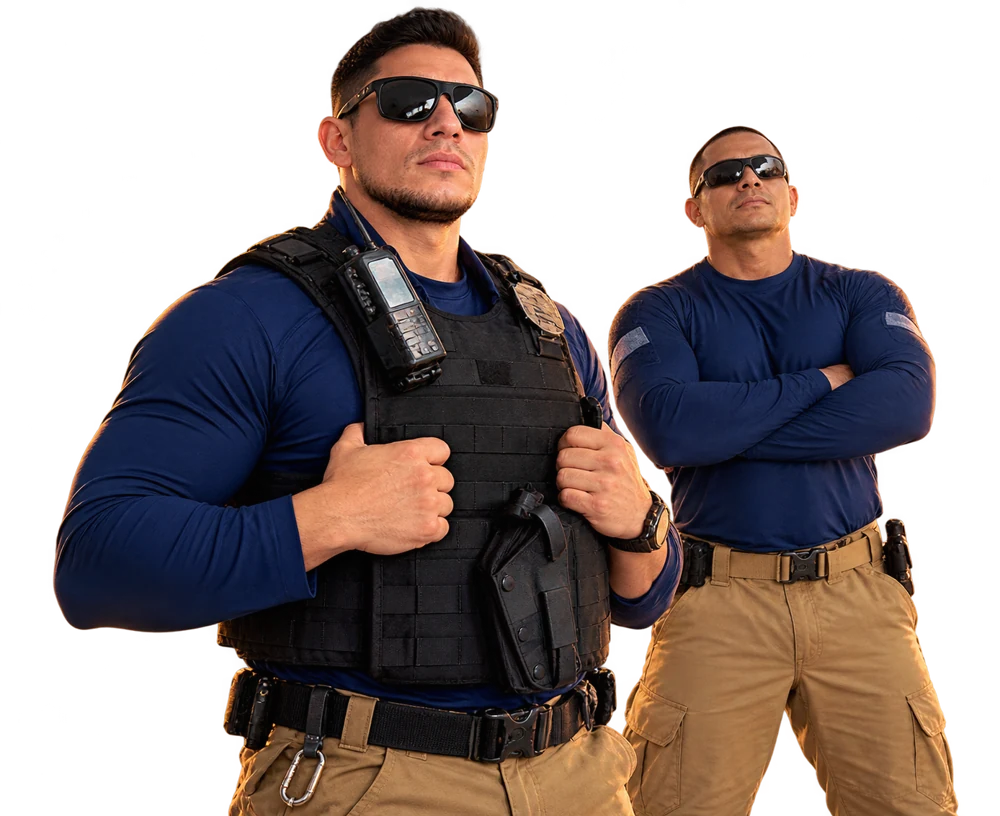
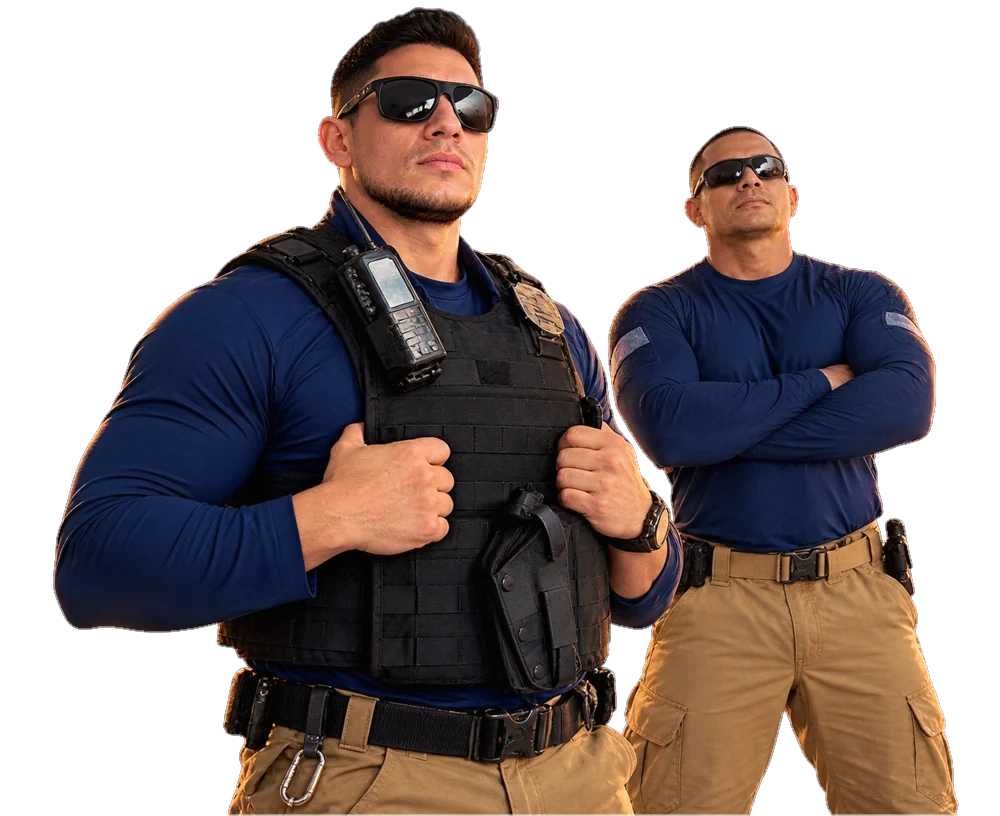
Troca o distintivo em baixa qualidade da tela offline e remove halo branco dos agentes (#268)
A tela "Você está sem conexão" usava um distintivo de qualidade inferior.
Substitui pela versão em maior resolução enviada pelo usuário, com o fundo
em xadrez (falsa transparência de editor de imagem) removido por recorte
conectado às bordas e suavização de borda. Usado só no offline.html; as
demais telas que usam o distintivo original (autenticação, hero) não foram
alteradas. Service worker precacheia o novo arquivo (versão v8).

Também recompõe o recorte dos dois agentes da seção "Antes de começar" na
home, removendo a franja esbranquiçada que sobrava nas bordas (cabelo,
ombros) ao descontaminar a cor do fundo branco original nos pixels
semitransparentes de borda.

Claude-Session: https://claude.ai/code/session_018XR7gFT2TosURh3MtZvRDY

diff --git a/public/offline.html b/public/offline.html
@@ -21,14 +21,14 @@
   .motion-toggle:hover { border-color: #e5bc7090; background: #181e17; }
   main { width: min(100%, 1320px); min-height: 0; justify-self: center; display: grid; grid-template-columns: minmax(0, 1fr) minmax(0, 1fr); gap: clamp(24px, 5vw, 88px); align-items: center; padding: 8px clamp(22px, 5vw, 76px); }
   .emblem { min-width: 0; min-height: 0; height: 100%; margin: 0; display: flex; flex-direction: column; justify-content: center; align-items: center; gap: 26px; }
-  .badge-stage { --badge-size: min(34vw, 54dvh, 440px); position: relative; width: var(--badge-size); aspect-ratio: 768 / 811; perspective: 1200px; }
+  .badge-stage { --badge-size: min(34vw, 54dvh, 440px); position: relative; width: var(--badge-size); aspect-ratio: 779 / 847; perspective: 1200px; }
   .badge-stage::after { content: ''; position: absolute; bottom: -18px; left: 20%; width: 60%; height: 12px; border-radius: 50%; background: #0009; filter: blur(8px); }
   .badge-rotor { position: relative; width: 100%; height: 100%; transform-style: preserve-3d; will-change: transform; animation: badge-sway 14s ease-in-out infinite; }
   .badge-face, .badge-edge { position: absolute; inset: 0; width: 100%; height: 100%; }
   .badge-face { object-fit: contain; backface-visibility: hidden; -webkit-backface-visibility: hidden; }
   .badge-front { transform: translateZ(6px); }
   .badge-back { transform: rotateY(180deg) translateZ(6px); }
-  .badge-edge { background: linear-gradient(115deg, #58432c, #bfa064 45%, #382c1e); mask: url('/media/brand/distintivo-carreiras-hd.webp') center / contain no-repeat; -webkit-mask: url('/media/brand/distintivo-carreiras-hd.webp') center / contain no-repeat; transform: translateZ(var(--depth)); }
+  .badge-edge { background: linear-gradient(115deg, #58432c, #bfa064 45%, #382c1e); mask: url('/media/brand/distintivo-carreiras-hd-v2.webp') center / contain no-repeat; -webkit-mask: url('/media/brand/distintivo-carreiras-hd-v2.webp') center / contain no-repeat; transform: translateZ(var(--depth)); }
   .motion-paused .badge-rotor, body[data-overlay-hidden] .badge-rotor { animation-play-state: paused; }
   .emblem figcaption { color: #e1cb9a; font-size: 10px; font-weight: 600; letter-spacing: .22em; text-transform: uppercase; text-shadow: 0 2px 12px #000; }
   .panel { position: relative; width: 100%; max-width: 480px; justify-self: end; overflow: hidden; border: 1px solid #d9b77055; border-radius: 24px; background: #121811ed; box-shadow: inset 0 1px 0 #fff09, 0 24px 70px #0005; backdrop-filter: blur(14px); -webkit-backdrop-filter: blur(14px); }
@@ -142,8 +142,8 @@
         <span class="badge-edge" style="--depth:1px"></span>
         <span class="badge-edge" style="--depth:3px"></span>
         <span class="badge-edge" style="--depth:5px"></span>
-        <img class="badge-face badge-front" src="/media/brand/distintivo-carreiras-hd.webp" width="768" height="811" alt="" decoding="async">
-        <img class="badge-face badge-back" src="/media/brand/distintivo-carreiras-hd.webp" width="768" height="811" alt="" decoding="async">
+        <img class="badge-face badge-front" src="/media/brand/distintivo-carreiras-hd-v2.webp" width="779" height="847" alt="" decoding="async">
+        <img class="badge-face badge-back" src="/media/brand/distintivo-carreiras-hd-v2.webp" width="779" height="847" alt="" decoding="async">
       </div>
     </div>
     <figcaption>Carreiras policiais · Norte Concursos</figcaption>

diff --git a/public/sw.js b/public/sw.js
@@ -7,7 +7,7 @@
 //  - /offline.html, mostrada quando não há nem página guardada.
 // O que NUNCA é guardado: dados do Supabase e qualquer outro domínio, nem requisições que não sejam GET.
 // Questões, respostas, ranking e login continuam sempre ao vivo.
-const VERSION = "v7";
+const VERSION = "v8";
 const SHELL_CACHE = `norte-app-shell-${VERSION}`;
 const ASSET_CACHE = `norte-assets-${VERSION}`;
 const PAGE_CACHE = `norte-pages-${VERSION}`;
@@ -18,7 +18,7 @@ const SHELL_ASSETS = [
   "/offline.html",
   "/media/loading/norte-abertura-hd.webp",
   "/media/hero/norte-atmosphere.webp",
-  "/media/brand/distintivo-carreiras-hd.webp",
+  "/media/brand/distintivo-carreiras-hd-v2.webp",
 ];
 const MAX_ASSETS = 220;
 const MAX_PAGES = 25;

diff --git a/ASSET_ATTRIBUTIONS.md b/ASSET_ATTRIBUTIONS.md
@@ -17,3 +17,7 @@
 - `public/media/brand/carreiras-marca-claro-hd.webp`: recorte recriado com a ferramenta integrada de edição de imagens a partir da referência de emblema metálico enviada pelo usuário. Fundo transparente, relevo cinza preservado e exportação WebP de 768 × 1061 px para o tema claro. A versão dourada do tema escuro permanece separada.
 
 - `src/assets/brand/relogio-face-circular.webp`: recorte quadrado, centrado no mostrador (caveira e pistola em relevo metálico), extraído do relógio estilizado "Carreiras Policiais" enviado pelo usuário como referência de arte para o novo relógio da plataforma (o mesmo material de origem de `public/media/brand/relogio-carreiras-policiais.webp`). Fundo branco removido por preenchimento a partir das bordas (transparência real, sem recorte adicional no miolo), exportado em WebP. Usado como arte do relógio compacto do Desafio do Dia, onde substitui o distintivo genérico só nesse contexto.
+
+- `public/media/brand/distintivo-carreiras-hd-v2.webp`: versão em maior resolução e com mais detalhe de cor do distintivo "Carreiras Policiais" (caveira dourada/bronze partida ao meio por uma pistola), enviada pelo usuário como arquivo de referência com fundo em xadrez (indicador de transparência de editor de imagem, não transparência real). Fundo removido por preenchimento conectado a partir das bordas (detecção de pixels acinzentados/claros ligados à borda da imagem), com suavização de borda por distância, e recorte pelo retângulo de conteúdo. Usado só na tela "Você está sem conexão" (`public/offline.html`), substituindo o distintivo antigo de qualidade inferior nesse contexto; os demais usos do distintivo (tela de autenticação, hero) continuam com o arquivo original.
+
+- `public/media/hero/faq-agentes-recorte.webp`: mesma foto dos dois agentes já usada na seção "Antes de começar" da home, com o recorte recomposto para remover a franja/halo esbranquiçado que sobrava nas bordas (cabelo, ombros) quando exibida sobre fundos escuros. As bordas semitransparentes tiveram a cor do fundo branco original removida por descontaminação alfa (unpremultiply), e a máscara de transparência foi levemente contraída e re-suavizada para eliminar o contorno claro remanescente. Mesmas dimensões do arquivo anterior; nenhum outro recorte foi feito.
